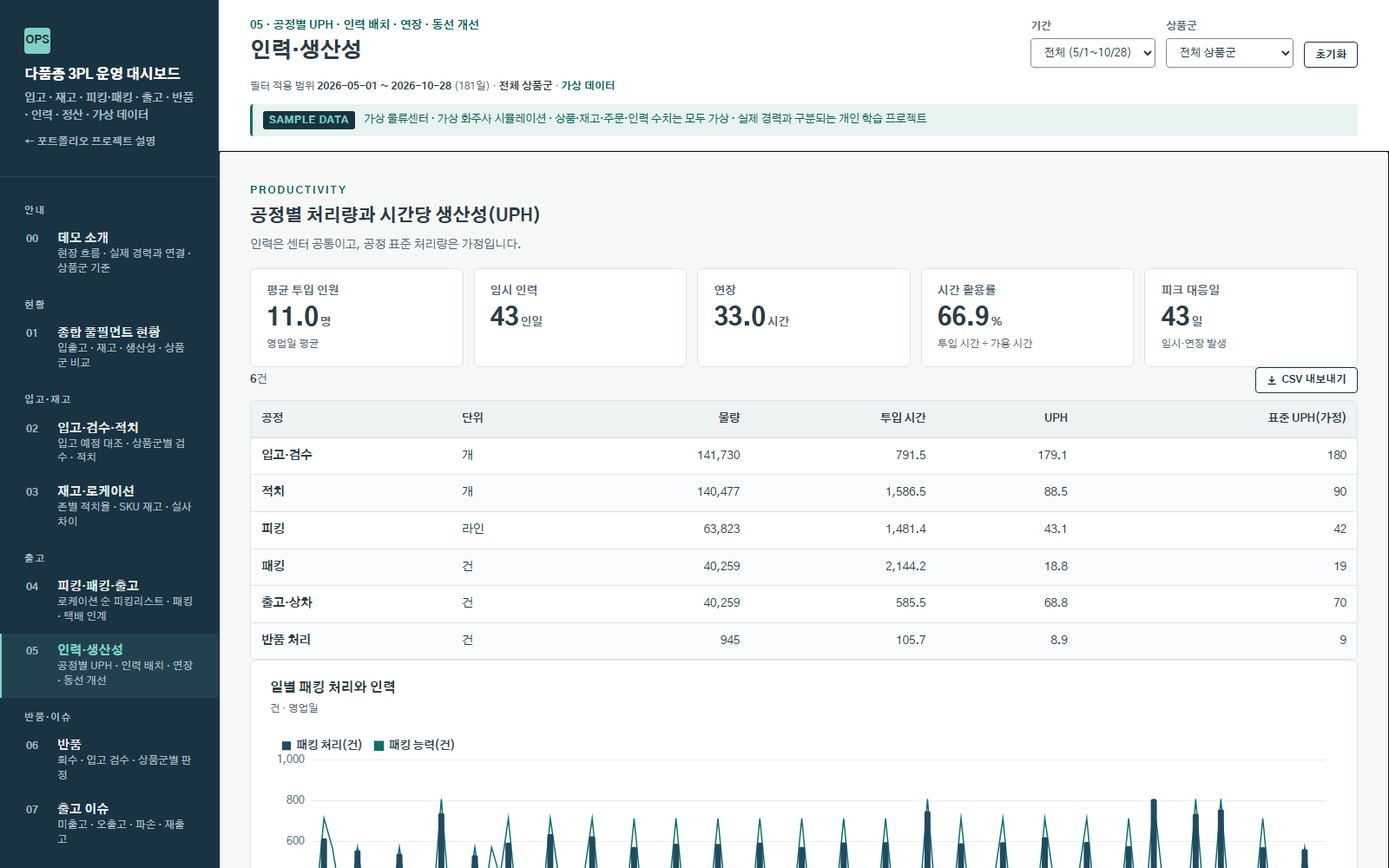
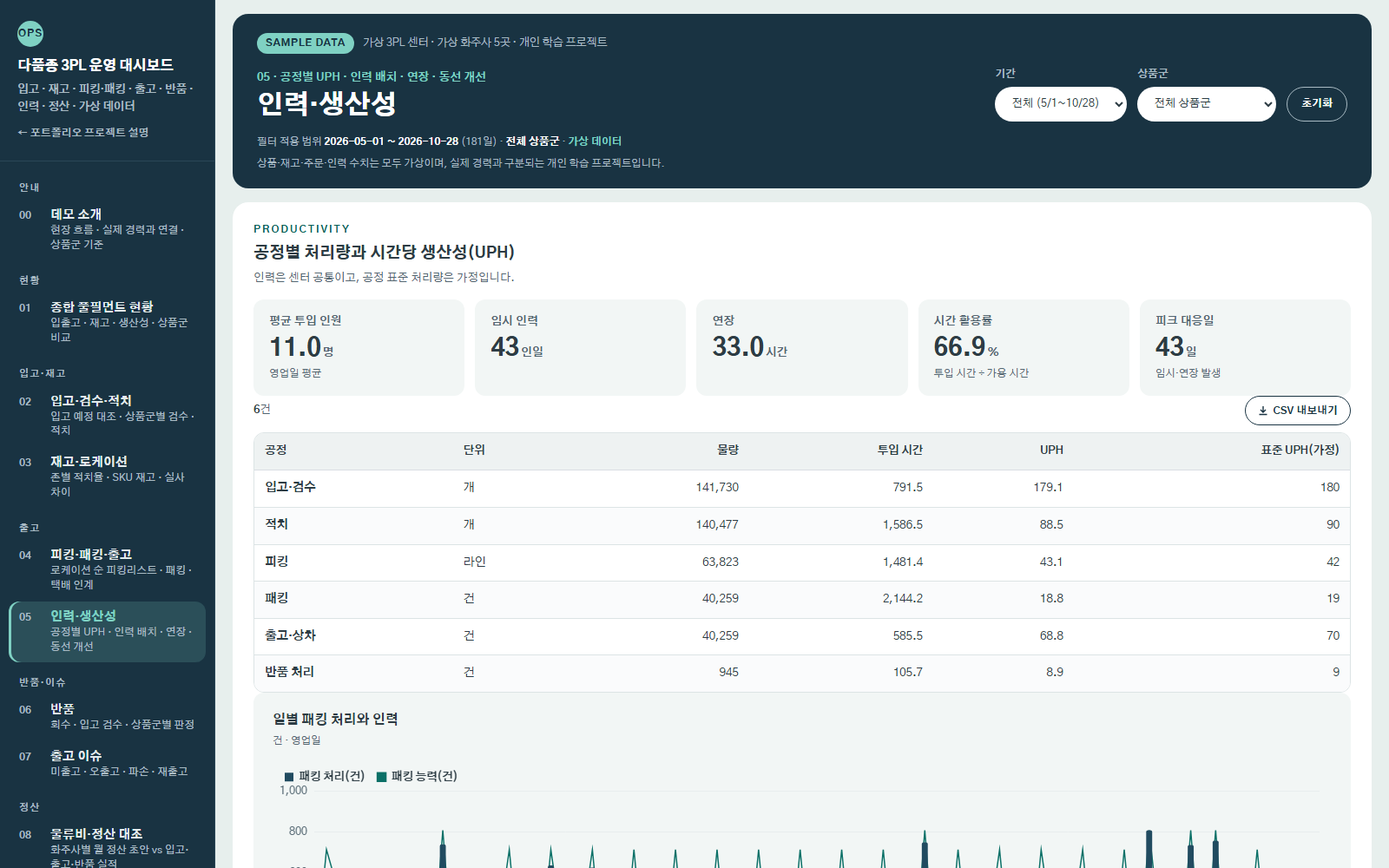
Turn the home page into a card and grid dashboard layout
- about.md: splash layout with hero, KPI cards, 4 project cards,
  career timeline + AX results, core skills and contact
- Gothic A1 font and jk-* component styles matching the main site
- Footer text contrast raised to WCAG AA on the light theme
- Project front matter for cards; AXPORT and 120-check wording synced
- Updated 3PL dashboard screenshots

diff --git a/assets/css/main.scss b/assets/css/main.scss
@@ -50,3 +50,116 @@
 .page__content table td:first-child {
   white-space: nowrap;
 }
+
+/* ---- 2026-11-10 대시보드형 홈(_pages/about.md, layout: splash) ----
+   메인 Flask 포트폴리오와 같은 색·글꼴: 차콜 #193342 · 청록 #0B7067 · 배경 #F6F8F8 · Gothic A1 */
+$jk-charcoal: #193342;
+$jk-accent: #0B7067;
+$jk-accent-ink: #0B655B;
+$jk-accent-wash: #E6F3F0;
+$jk-accent-dark: #7FD1C3;
+$jk-bg: #F6F8F8;
+$jk-text: #2D3C44;
+$jk-muted: #536671;
+$jk-line: #DCE4E5;
+
+body, .masthead, .page__footer { font-family: 'Gothic A1', 'Malgun Gothic', -apple-system, 'Apple SD Gothic Neo', sans-serif; }
+.splash { max-width: 1180px; margin: 0 auto; padding: 0 16px 32px; }
+.splash .page__content { width: 100%; float: none; }
+.splash .page__content > *:first-child { margin-top: 0; }
+body:has(.jk-hero) { background: $jk-bg; }
+
+.jk-hero, .jk-card { border-radius: 18px; padding: 24px 26px; margin: 0 0 16px; }
+.jk-hero { background: $jk-charcoal; color: #fff; padding: 30px 32px 28px; }
+.jk-eyebrow { margin: 0; font-size: 13px; font-weight: 700; letter-spacing: .06em; color: $jk-accent-dark; }
+.jk-name { margin: 10px 0 0; font-size: 15px; font-weight: 700; color: #C9D6DC; }
+.jk-hero h1 { margin: 6px 0 0; font-size: clamp(28px, 3.4vw, 40px); line-height: 1.25; font-weight: 800; color: #fff; word-break: keep-all; }
+.jk-hero h1 span { color: $jk-accent-dark; }
+.jk-lead { margin: 14px 0 0; max-width: 760px; font-size: 16px; line-height: 1.7; color: #D9E3E7; word-break: keep-all; }
+.jk-facts { list-style: none; margin: 18px 0 0; padding: 0; display: flex; flex-wrap: wrap; gap: 8px; }
+.jk-facts li { margin: 0; padding: 6px 14px; border-radius: 999px; background: rgba(255, 255, 255, .08); border: 1px solid rgba(255, 255, 255, .18); font-size: 13.5px; color: #E4ECEE; }
+.jk-facts b { color: #fff; }
+.jk-actions { display: flex; flex-wrap: wrap; gap: 10px; margin: 20px 0 0; }
+.jk-btn { display: inline-flex; align-items: center; min-height: 44px; padding: 0 18px; border-radius: 999px; border: 1px solid currentColor; font-size: 14px; font-weight: 700; text-decoration: none; color: inherit; }
+.jk-hero .jk-btn { color: #fff; border-color: rgba(255, 255, 255, .45); }
+.jk-btn.primary, .jk-hero .jk-btn.primary { background: $jk-accent; border-color: $jk-accent; color: #fff; }
+.jk-btn:hover { text-decoration: none; filter: brightness(1.08); }
+.jk-btn:focus-visible, .jk-arrow:focus-visible, .jk-project h3 a:focus-visible { outline: 2px solid $jk-accent; outline-offset: 2px; }
+
+.jk-card { background: #fff; border: 1px solid $jk-line; box-shadow: 0 1px 2px rgba(25, 51, 66, .05); color: $jk-text; }
+.jk-card-head { display: flex; flex-wrap: wrap; align-items: baseline; gap: 4px 14px; margin-bottom: 16px; position: relative; padding-right: 56px; }
+.jk-card-head h2 { margin: 0; padding: 0; border: 0; font-size: 19px; font-weight: 800; color: $jk-charcoal; }
+.jk-card-head p { margin: 0; font-size: 13px; color: $jk-muted; }
+.jk-arrow { position: absolute; right: 0; top: -6px; width: 44px; height: 44px; border-radius: 50%; border: 1px solid $jk-line; background: $jk-bg; display: inline-flex; align-items: center; justify-content: center; font-size: 18px; color: $jk-charcoal; text-decoration: none; }
+.jk-arrow:hover { background: $jk-accent; border-color: $jk-accent; color: #fff; text-decoration: none; }
+
+.jk-kpis { display: grid; grid-template-columns: repeat(3, minmax(0, 1fr)); gap: 12px; margin: 0; }
+.jk-kpis > div { display: flex; flex-direction: column; padding: 14px 16px; border-radius: 12px; background: $jk-bg; border-top: 3px solid $jk-accent; }
+.jk-kpis dt { order: 2; font-size: 14px; font-weight: 700; color: $jk-charcoal; margin: 4px 0 0; }
+.jk-kpis dd { margin: 0; }
+.jk-kpis .v { order: 1; font-size: clamp(24px, 2.4vw, 30px); font-weight: 800; color: $jk-charcoal; letter-spacing: -.02em; white-space: nowrap; font-variant-numeric: tabular-nums; }
+.jk-kpis .s { order: 3; font-size: 12.5px; color: $jk-muted; }
+
+.jk-projects { display: grid; grid-template-columns: repeat(2, minmax(0, 1fr)); gap: 16px; }
+.jk-project { display: flex; flex-direction: column; border: 1px solid $jk-line; border-radius: 14px; overflow: hidden; background: #fff; }
+.jk-thumb { display: block; aspect-ratio: 16 / 10; background: #EDF1F1; overflow: hidden; }
+.jk-thumb img { width: 100%; height: 100%; object-fit: cover; object-position: top; display: block; }
+.jk-thumb.contain { padding: 12px; background: $jk-bg; }
+.jk-thumb.contain img { object-fit: contain; object-position: center; }
+.jk-project-body { padding: 16px 18px 18px; display: flex; flex-direction: column; gap: 6px; }
+.jk-kind { margin: 0; display: inline-block; align-self: flex-start; padding: 2px 10px; border-radius: 999px; background: $jk-accent-wash; color: $jk-accent-ink; font-size: 12.5px; font-weight: 700; }
+.jk-project h3 { margin: 2px 0 0; font-size: 17px; line-height: 1.4; word-break: keep-all; }
+.jk-project h3 a { color: $jk-charcoal; text-decoration: none; }
+.jk-project h3 a:hover { text-decoration: underline; }
+.jk-excerpt, .jk-role, .jk-note { margin: 0; font-size: 13.5px; line-height: 1.6; color: $jk-text; word-break: keep-all; }
+.jk-role { color: $jk-muted; font-size: 12.5px; }
+.jk-note { color: $jk-accent-ink; font-size: 12.5px; font-weight: 700; }
+
+.jk-row { display: grid; grid-template-columns: repeat(3, minmax(0, 1fr)); gap: 16px; margin-bottom: 16px; }
+.jk-row > .jk-card { margin: 0; min-width: 0; }
+.jk-span-2 { grid-column: span 2; }
+.jk-timeline { list-style: none; margin: 0; padding: 0; display: grid; gap: 10px; }
+.jk-timeline li { margin: 0; display: grid; grid-template-columns: 150px minmax(0, 1fr); gap: 2px 14px; padding: 12px 14px; border-radius: 12px; background: $jk-bg; }
+.jk-timeline .when { grid-row: 1 / span 3; font-size: 12.5px; font-weight: 700; color: $jk-muted; font-variant-numeric: tabular-nums; }
+.jk-timeline b { font-size: 15px; color: $jk-charcoal; }
+.jk-timeline .what { font-size: 13px; color: $jk-text; word-break: keep-all; }
+.jk-timeline .hit { font-size: 13px; font-weight: 700; color: $jk-accent-ink; }
+.jk-ax { list-style: none; margin: 0; padding: 0; display: grid; gap: 10px; }
+.jk-ax li { margin: 0; display: flex; flex-direction: column; padding: 12px 14px; border-radius: 12px; background: $jk-bg; border-top: 3px solid $jk-accent-ink; }
+.jk-ax b { font-size: 22px; font-weight: 800; color: $jk-charcoal; font-variant-numeric: tabular-nums; }
+.jk-ax span { font-size: 13.5px; font-weight: 700; color: $jk-charcoal; }
+.jk-ax em { font-style: normal; font-size: 12.5px; color: $jk-muted; }
+.jk-skills { display: grid; grid-template-columns: repeat(4, minmax(0, 1fr)); gap: 12px; }
+.jk-skills > div { display: flex; flex-direction: column; gap: 6px; padding: 14px 16px; border-radius: 12px; background: $jk-bg; }
+.jk-skills b { font-size: 14.5px; color: $jk-charcoal; }
+.jk-skills span { font-size: 13px; line-height: 1.6; color: $jk-text; word-break: keep-all; }
+.jk-skills em { font-style: normal; font-weight: 700; color: $jk-accent-ink; }
+.jk-contact .jk-btn { color: $jk-charcoal; border-color: $jk-line; }
+.jk-contact .jk-btn.primary { color: #fff; border-color: $jk-accent; }
+
+/* 테마의 .page__content p·a 규칙보다 우선하도록 범위를 좁혀 다시 지정 */
+.page__content .jk-lead { font-size: 16px; }
+.page__content .jk-excerpt, .page__content .jk-role, .page__content .jk-note { font-size: 14px; line-height: 1.6; }
+.page__content .jk-role, .page__content .jk-note { font-size: 13px; }
+.page__content .jk-card-head p, .page__content .jk-kind { font-size: 13px; }
+.page__content a.jk-btn, .page__content a.jk-arrow, .page__content .jk-project h3 a { text-decoration: none; }
+.page__content .jk-project h3 { font-size: 18px; }
+
+@media (max-width: 1024px) {
+  .jk-row { grid-template-columns: minmax(0, 1fr); }
+  .jk-span-2 { grid-column: auto; }
+  .jk-skills { grid-template-columns: repeat(2, minmax(0, 1fr)); }
+}
+@media (max-width: 700px) {
+  .jk-hero, .jk-card { padding: 20px 18px; }
+  .jk-kpis { grid-template-columns: repeat(2, minmax(0, 1fr)); gap: 10px; }
+  .jk-kpis > div { padding: 12px; }
+  .jk-projects, .jk-skills { grid-template-columns: minmax(0, 1fr); }
+  .jk-timeline li { grid-template-columns: minmax(0, 1fr); }
+  .jk-timeline .when { grid-row: auto; }
+}
+
+/* 하단 바 글자 대비(WCAG AA, 2026-11-11): 라이트 테마 기본 연회색(#bdc1c4)은 배경 #f2f3f3 위에서 1.6:1이라 진하게. 다크 테마는 그대로 */
+html:not([data-theme="dark"]) .page__footer,
+html:not([data-theme="dark"]) .page__footer a,
+html:not([data-theme="dark"]) .page__footer-copyright { color: $jk-muted; }

diff --git a/_includes/head/custom.html b/_includes/head/custom.html
@@ -22,4 +22,9 @@
 <link rel="icon" href="{{ base_path }}/images/favicon.ico"/>
 <meta name="theme-color" content="var(--global-bg-color)"/>
 
+<!-- Gothic A1 (메인 Flask 포트폴리오와 같은 글꼴) -->
+<link rel="preconnect" href="https://fonts.googleapis.com">
+<link rel="preconnect" href="https://fonts.gstatic.com" crossorigin>
+<link rel="stylesheet" href="https://fonts.googleapis.com/css2?family=Gothic+A1:wght@400;500;700;800&display=swap">
+
 <!-- end custom head snippets -->

diff --git a/_pages/about.md b/_pages/about.md
@@ -1,93 +1,98 @@
 ---
 permalink: /
+layout: splash
 title: "현장을 이해하고, 데이터로 물류 운영을 개선합니다."
-author_profile: true
-redirect_from: 
+excerpt: "3PL·풀필먼트 센터와 무역회사에서 4년 8개월 동안 겪은 운영 문제를 데이터·AI 도구로 풀고 있는 물류 운영 포트폴리오"
+redirect_from:
   - /about/
   - /about.html
 ---
 
-**3PL·풀필먼트 · 물류 운영 · 데이터·자동화**
+<!-- 대시보드형 홈 (2026-11-10): 헤더 카드 → 경력 KPI → 대표 프로젝트 → 경력·AX 결과 → 역량 → 연락처.
+     수치와 문구는 JUNHEE_Portfolio/data/*.json(Flask 운영 사이트)과 같다. 회사별 수치는 합산하지 않는다. -->
 
-3PL·풀필먼트 센터와 무역회사에서 4년 8개월 동안 겪은 운영 문제를, AI 코딩 도구로 직접 대시보드를 만들어 풀고 있습니다. 운영 기준은 직접 정하고, 계산 결과는 자동 점검으로 확인합니다.
+<section class="jk-hero" aria-labelledby="jk-hero-title">
+  <p class="jk-eyebrow">3PL·풀필먼트 · 물류 운영 · 데이터·자동화</p>
+  <p class="jk-name">Junhee So</p>
+  <h1 id="jk-hero-title">현장을 이해하고, <span>데이터로 물류 운영을 개선합니다.</span></h1>
+  <p class="jk-lead">3PL·풀필먼트 센터와 무역회사에서 4년 8개월 동안 겪은 운영 문제를, AI 코딩 도구로 직접 대시보드를 만들어 풀고 있습니다. 운영 기준은 직접 정하고, 계산 결과는 자동 점검으로 확인합니다.</p>
+  <ul class="jk-facts">
+    <li>물류·무역 실무 <b>4년 8개월</b></li>
+    <li>3PL·풀필먼트 센터 <b>3곳</b> · 수입통관 <b>1곳</b></li>
+    <li>한국무역아카데미 <b>무역 AX 2기</b></li>
+  </ul>
+  <p class="jk-actions">
+    <a class="jk-btn primary" href="{{ '/portfolio/' | relative_url }}">프로젝트 보기</a>
+    <a class="jk-btn" href="{{ '/cv/' | relative_url }}">이력 보기</a>
+    <a class="jk-btn" href="mailto:sojh90@naver.com">sojh90@naver.com</a>
+  </p>
+</section>
 
-[프로젝트 보기]({{ '/portfolio/' | relative_url }}){: .btn .btn--primary} [이력 보기]({{ '/cv/' | relative_url }}){: .btn .btn--info}
+<section class="jk-card" aria-labelledby="jk-kpi-title">
+  <header class="jk-card-head"><h2 id="jk-kpi-title">실무 경력 지표</h2><p>회사별 수치이며 서로 합산하지 않았습니다</p></header>
+  <dl class="jk-kpis">
+    <div><dt>물류·무역 실무 경험</dt><dd class="v">4년 8개월</dd><dd class="s">전체 경력</dd></div>
+    <div><dt>월 출고 운영 경험</dt><dd class="v">50,000건+</dd><dd class="s">굿앤파트너스</dd></div>
+    <div><dt>화주사 대응</dt><dd class="v">약 15개사</dd><dd class="s">굿앤파트너스</dd></div>
+    <div><dt>재고 정확도</dt><dd class="v">99%</dd><dd class="s">제이아이로지스</dd></div>
+    <div><dt>월 마감 소요일</dt><dd class="v">7일 → 3일</dd><dd class="s">두잇로지스</dd></div>
+    <div><dt>장기 적치 보관비</dt><dd class="v">약 10% 감소</dd><dd class="s">젠미코리아</dd></div>
+  </dl>
+</section>
 
-## 대표 프로젝트
+<section class="jk-card" aria-labelledby="jk-proj-title">
+  <header class="jk-card-head"><h2 id="jk-proj-title">대표 프로젝트</h2><p>1번만 회사 실무이고, 2~4번은 개인·팀 프로젝트입니다</p><a class="jk-arrow" href="{{ '/portfolio/' | relative_url }}" aria-label="프로젝트 전체 보기">↗</a></header>
+  <div class="jk-projects">
+    {% for p in site.portfolio %}
+    <article class="jk-project">
+      <a class="jk-thumb{% if p.image_note %} contain{% endif %}" href="{{ p.url | relative_url }}" tabindex="-1" aria-hidden="true">{% if p.header.teaser %}<img src="{{ '/images/' | append: p.header.teaser | relative_url }}" alt="" loading="lazy" width="1600" height="1000">{% endif %}</a>
+      <div class="jk-project-body">
+        <p class="jk-kind">{{ p.kind }}</p>
+        <h3><a href="{{ p.url | relative_url }}">{{ p.title }}</a></h3>
+        <p class="jk-excerpt">{{ p.excerpt | strip_html | truncate: 150 }}</p>
+        {% if p.role_short %}<p class="jk-role">{{ p.role_short }}</p>{% endif %}
+        {% if p.image_note %}<p class="jk-note">{{ p.image_note }}</p>{% endif %}
+      </div>
+    </article>
+    {% endfor %}
+  </div>
+</section>
 
-| 프로젝트 | 구분 | 한 줄 요약 |
-|---|---|---|
-| [Excel 월 운영 매출 대시보드]({{ '/portfolio/01-excel-sales-dashboard/' | relative_url }}) | **실무 · 직접 제작** | 화주 10곳 매출을 한 화면에 모아 월 운영 보고·정산 대조에 사용 (화면은 가상 데이터 재현본) |
-| [다품종 3PL 운영 대시보드]({{ '/portfolio/02-scm-operations-dashboard/' | relative_url }}) | 개인 · 가상 데이터 | 입고부터 반품·정산까지 현장 흐름대로 보고, 정산 초안 오류를 실적으로 찾아냄 |
-| [AXPORT 수출 적합도 분석]({{ '/portfolio/03-axport-mini1/' | relative_url }}) | 5인 팀 | 공공데이터 수집·분석 엔진 통합·로그인 담당 |
-| [REBOOT 미국 수출 마케팅]({{ '/portfolio/04-reboot-marketing-dashboard/' | relative_url }}) | 6인 팀 · 팀장 | FDA·FTC 기준 광고 심의·고객 응대 탭 담당 |
+<div class="jk-row">
+  <section class="jk-card jk-span-2" aria-labelledby="jk-career-title">
+    <header class="jk-card-head"><h2 id="jk-career-title">경력</h2><p>최근 순 · 성과는 해당 재직 기간 기준</p><a class="jk-arrow" href="{{ '/cv/' | relative_url }}" aria-label="이력 자세히 보기">↗</a></header>
+    <ol class="jk-timeline">
+      <li><span class="when">2024.06 — 2026.06</span><b>젠미코리아</b><span class="what">무역행정팀 · 일본 수입식품 통관 서류 · UNI-PASS · 보세창고 일정 · 사방넷 출고 데이터</span><span class="hit">장기 적치 보관비 약 10% 감소 · 프리타임 준수율 100%</span></li>
+      <li><span class="when">2023.12 — 2024.05</span><b>두잇로지스</b><span class="what">물류운영부 팀장 · 신규 센터 WMS 세팅 · FCL 입출고 · 화주사별 정산</span><span class="hit">월 마감 7일 → 3일 · 보관 효율 약 28% 개선</span></li>
+      <li><span class="when">2022.04 — 2023.09</span><b>제이아이로지스</b><span class="what">센터장 · 다품종 소형가전 3PL · 재고·피킹·패킹 · 단가 관리와 정산</span><span class="hit">재고 정확도 99% · 오출고율 월 1% 미만</span></li>
+      <li><span class="when">2021.09 — 2022.03</span><b>굿앤파트너스</b><span class="what">메쉬코리아 김포 풀필먼트 · B2C·B2B 출고 · WMS · 월간 재고 마감</span><span class="hit">월 50,000건 이상 출고 · 약 15개 화주사</span></li>
+    </ol>
+  </section>
+  <section class="jk-card" aria-labelledby="jk-ax-title">
+    <header class="jk-card-head"><h2 id="jk-ax-title">AX 프로젝트 결과</h2><p>가상 데이터와 로컬 측정 기준</p></header>
+    <ul class="jk-ax">
+      <li><b>5 / 5</b><span>일부러 넣은 정산 오류를 실적 대조로 찾아냄</span><em>다품종 3PL · 가상 데이터</em></li>
+      <li><b>447,538</b><span>계산 점검 항목 모두 통과</span><em>다품종 3PL · 가상 데이터 자동 점검</em></li>
+      <li><b>466 → 221MB</b><span>무료 서버 강제 종료 해결 (최대 메모리)</span><em>AXPORT · Windows 로컬 재측정 · 과거 기록 215MB</em></li>
+    </ul>
+  </section>
+</div>
 
-## 핵심 경력 지표
+<section class="jk-card" aria-labelledby="jk-skill-title">
+  <header class="jk-card-head"><h2 id="jk-skill-title">핵심 역량</h2><p>실무 경험과 학습·적용 중인 역량을 구분했습니다</p></header>
+  <div class="jk-skills">
+    <div><b>3PL·풀필먼트 운영</b><span>입출고 관리 · B2C·B2B 출고 · 화주사 대응 · 채널별 작업계획</span></div>
+    <div><b>재고·시스템 관리</b><span>WMS · DAS · Excel 전산관리 · 월간 재고 마감·실사</span></div>
+    <div><b>현장 생산성·정산</b><span>인력 배치 · 생산성 데이터 · 작업 동선 개선 · 물류비 정산</span></div>
+    <div><b>수입통관·업무 자동화</b><span>Invoice·B/L·P/L 검토 · UNI-PASS · 사방넷 · <em>학습·적용 중:</em> Python · AI 업무 자동화</span></div>
+  </div>
+</section>
 
-<small>회사별 수치이며 서로 합산하지 않았습니다.</small>
-
-| 지표 | 수치 | 출처 |
-|---|---|---|
-| 물류·무역 실무 경험 | **4년 8개월** | 전체 경력 |
-| 월 출고 운영 경험 | **50,000건 이상** | 굿앤파트너스 |
-| 화주사 대응 | **약 15개사** | 굿앤파트너스 |
-| 재고 정확도 | **99%** | 제이아이로지스 |
-| 월 마감 소요일 단축 | **7일 → 3일** | 두잇로지스 |
-| 장기 적치 보관비 감소 | **약 10%** | 젠미코리아 |
-
-## 소개
-
-3PL과 풀필먼트 센터에서 입출고, 재고, 작업 인력과 출고 일정을 관리했습니다. WMS와 Excel로 운영 데이터를 확인하고, 화주사와 소통하며 정산과 마감, 작업 동선 같은 현장의 문제를 개선해 왔습니다.
-
-이후 수입식품 통관 서류와 보세창고 일정을 다루며 물류의 앞단까지 경험을 넓혔습니다. 지금은 한국무역아카데미 **무역 AX 2기**에서 데이터 분석, AI, Python과 웹 기반 시스템을 배우고 있습니다.
-
-## 핵심 역량
-
-<small>실무 경험은 재직 중 수행한 업무이고, <em>학습·적용 중</em> 표시는 교육 과정과 개인 프로젝트에서 익히고 있는 역량입니다.</small>
-
-**A. 3PL·풀필먼트 운영**
-- 입출고 관리
-- B2C · B2B 출고 운영
-- 화주사 대응 (약 15개사)
-- 출고 일정 · 채널별 작업계획
-
-**B. 재고·시스템 관리**
-- WMS · DAS
-- Excel 전산관리
-- 월간 재고 마감 · 재고 실사
-- 재고 정확도 관리
-
-**C. 현장 생산성·정산**
-- 작업 인력 · 하역 인력 배치
-- 생산성 데이터 확인
-- 작업 동선 · 입출고 레이아웃 개선
-- 화주사별 물류비 정산 · 운영 단가 검토
-
-**D. 수입통관·업무 자동화**
-- 수입 서류 검토 (Invoice · B/L · P/L)
-- UNI-PASS · 보세창고 일정 관리
-- 사방넷 D2C · B2B 출고 데이터
-- *학습·적용 중:* Python · AI 활용 업무 자동화, 웹 기반 운영 대시보드 구현
-
-## 프로젝트에서 확인한 수치
-
-<small>가상 데이터와 공개 배포본 기준이며, 실제 업무 효과를 검증한 수치는 아닙니다.</small>
-
-| 수치 | 내용 | 프로젝트 |
-|---|---|---|
-| **5 / 5** | 일부러 넣은 정산 오류를 실적 대조로 찾아냄 | [다품종 3PL 운영 대시보드]({{ '/portfolio/02-scm-operations-dashboard/' | relative_url }}) (가상 데이터) |
-| **447,538** | 계산 점검 항목 모두 통과 | [다품종 3PL 운영 대시보드]({{ '/portfolio/02-scm-operations-dashboard/' | relative_url }}) |
-| **466 → 215MB** | 무료 서버 강제 종료 해결 (최대 메모리) | [AXPORT]({{ '/portfolio/03-axport-mini1/' | relative_url }}) 공개 배포본 · 로컬 측정 (11-10 재측정 466→221MB) |
-
-## AX 학습 여정
-
-1. **실무 경험 — 현업의 맥락을 이해합니다.** SCM · 재고 · 출고 · 정산 · 통관
-2. **현재 학습 — 데이터와 기술로 시야를 넓힙니다.** 데이터 분석 · Python · AI · 자동화
-3. **지향점 — 현업 문제를 시스템으로 해결합니다.** 현장에서 실제로 쓸 수 있는 도구를 만드는 것이 목표입니다.
-
-## 연락처
-
-더 나은 운영을 만드는 일, 함께 이야기하고 싶습니다.
-
-- Email: [sojh90@naver.com](mailto:sojh90@naver.com)
-- GitHub: [github.com/SOJUNHEE](https://github.com/SOJUNHEE)
+<section class="jk-card jk-contact" aria-labelledby="jk-contact-title">
+  <header class="jk-card-head"><h2 id="jk-contact-title">연락처</h2><p>더 나은 운영을 만드는 일, 함께 이야기하고 싶습니다</p></header>
+  <p class="jk-actions">
+    <a class="jk-btn primary" href="mailto:sojh90@naver.com">이메일 sojh90@naver.com</a>
+    <a class="jk-btn" href="https://github.com/SOJUNHEE">GitHub</a>
+    <a class="jk-btn" href="https://portfolio-sojunhee.vercel.app/">운영 중인 포트폴리오 사이트</a>
+  </p>
+</section>

diff --git a/_portfolio/03-axport-mini1.md b/_portfolio/03-axport-mini1.md
@@ -3,6 +3,8 @@ title: "AXPORT — 수출 적합도 분석 플랫폼"
 excerpt: "반도체 수출 기업의 엑셀을 올리면 시장성·가격·물류·안정성·규제 5개 영역을 한 화면에서 비교하는 서비스에서, 공공데이터 수집과 5개 분석 엔진 통합, 로그인을 맡아 실제로 돌아가는 서비스로 완성했습니다."
 collection: portfolio
 order: 3
+kind: "5인 팀 프로젝트"
+role_short: "데이터 수집·가공, 분석 엔진 통합·연결, 로그인·계정·워크스페이스 백엔드 담당"
 header:
   teaser: "portfolio/axport-mini1-thumb.png"
 ---
@@ -26,8 +28,8 @@ header:
 | 수치 | 의미 |
 |---|---|
 | **약 1주** | 동작하는 서비스 완성 (5인 팀, 09.23~09.29) |
-| **466→215MB** | 공개 배포본 최대 메모리 (로컬 측정 · 2026-11-10 재측정 466→221MB) |
-| **47 / 50** | 자동 테스트 통과 (3개는 Postgres 테스트 DB 필요로 건너뜀 · 2026-11-10 재실행) |
+| **466→221MB** | 공개 배포본 최대 메모리 (Windows 로컬 같은 시나리오 재측정 · 과거 커밋 기록은 215MB) |
+| **47개** | 자동 테스트 통과 · 3개는 별도 Postgres DB 필요로 미실행 (2026-11-10) |
 | **5개** | 분석 영역 통합 |
 
 ## 배경 · 문제
@@ -88,7 +90,7 @@ header:
 
 ## 시행착오
 
-- 무료 서버(메모리 512MB)에서 분석 중 서버가 강제 종료됐습니다. 단계별로 메모리를 재서 한국은행 엑셀 속 약 30MB 외부 링크 데이터를 함께 읽는 것이 원인임을 찾았고, 읽는 값은 같게 유지한 채 최대 메모리를 466MB → 215MB로 줄였습니다(로컬 측정 기준, 커밋 기록). 같은 조건으로 다시 재 보니 466MB → 221MB였습니다.
+- 무료 서버(메모리 512MB)에서 분석 중 서버가 강제 종료됐습니다. 단계별로 메모리를 재서 한국은행 엑셀 속 약 30MB 외부 링크 데이터를 함께 읽는 것이 원인임을 찾았고, 읽는 값은 같게 유지한 채 최대 메모리를 466MB → 221MB로 줄였습니다(2026-11-10 Windows 로컬 같은 시나리오 재측정, 과거 커밋 기록은 215MB).
 
 ## AI 활용 방식
 
@@ -114,8 +116,8 @@ header:
 - Playwright 기반 브라우저 회귀 테스트 스크립트를 직접 작성해, 업로드→분석→영역별 표시→필터→로그인→폴더 관리→로그아웃 후 재로그인까지의 흐름과 브라우저 콘솔 오류 0건을 반복적으로 확인했다.
 - 팀이 검토·확정한 안정성 평가 산식(환율 변동성 기반)은 문서화했지만, 이번 제출 시점 엔진 점수 계산에는 아직 전부 반영하지 못한 부분이 있어 이는 완료가 아닌 진행 중인 상태로 남겨둔다.
 - 미니프로젝트 제출 기준으로 로그인, 파일 업로드, 5개 영역 분석 표시, 문의하기까지 하나의 흐름으로 동작하는 것을 확인했으며, 아직 채용 담당자나 실제 사용자에게 공개해 반응을 확인한 단계는 아니다.
-- 공개 배포본을 무료 서버(메모리 512MB)에서 분석하던 중 서버가 강제 종료되는 문제가 있었다. 단계별 메모리 측정으로 원인이 한국은행 원표 엑셀에 포함된 약 30MB의 외부 링크 데이터를 함께 읽는 데 있음을 찾아, 읽는 값은 같게 유지한 채 로컬 측정 기준 최대 메모리를 약 466MB에서 215MB로 줄였다(AI 코딩 도구와 함께 진단·수정, 2026-10-06 커밋 기록). 2026-11-10 같은 시나리오로 다시 측정한 결과는 466MB → 221MB이고 분석 결과는 같았다(junhee/docs/MEMORY_MEASUREMENT.md).
-- 공개 배포본 코드는 로컬에서 자동 테스트 50개 중 47개 통과(3개는 Postgres 테스트 DB가 있을 때만 실행되어 건너뜀, 2026-11-10 재실행), 외부 API 키 없이 가상 샘플과 업로드 양식 파일의 분석 완료, 방문자 간 데이터 분리를 확인했다. 키가 없는 지표는 ‘키 없음’으로 표시되어 종합 등급은 ‘판단 근거 부족’으로 나온다.
+- 공개 배포본을 무료 서버(메모리 512MB)에서 분석하던 중 서버가 강제 종료되는 문제가 있었다. 단계별 메모리 측정으로 원인이 한국은행 원표 엑셀에 포함된 약 30MB의 외부 링크 데이터를 함께 읽는 데 있음을 찾아, 읽는 값은 같게 유지한 채 최대 메모리를 줄였다(AI 코딩 도구와 함께 진단·수정). 2026-11-10 Windows 로컬에서 같은 시나리오로 수정 전후를 다시 측정하면 466MB → 221MB이고 분석 결과는 같다(junhee/docs/MEMORY_MEASUREMENT.md). 2026-10-06 커밋 메시지에는 215MB로 기록되어 있으나 당시 원시 로그는 없다. 로컬 측정이라 Render 서버의 실제 수치와는 다를 수 있다.
+- 공개 배포본 코드는 로컬에서 자동 테스트 47개 통과·3개 미실행(별도 Postgres 테스트 DB가 있어야 실행되는 테스트, 2026-11-10 재실행), 외부 API 키 없이 가상 샘플과 업로드 양식 파일의 분석 완료, 방문자 간 데이터 분리를 확인했다. 키가 없는 지표는 ‘키 없음’으로 표시되어 종합 등급은 ‘판단 근거 부족’으로 나온다.
 
 ## 한계와 개선 과제
 
